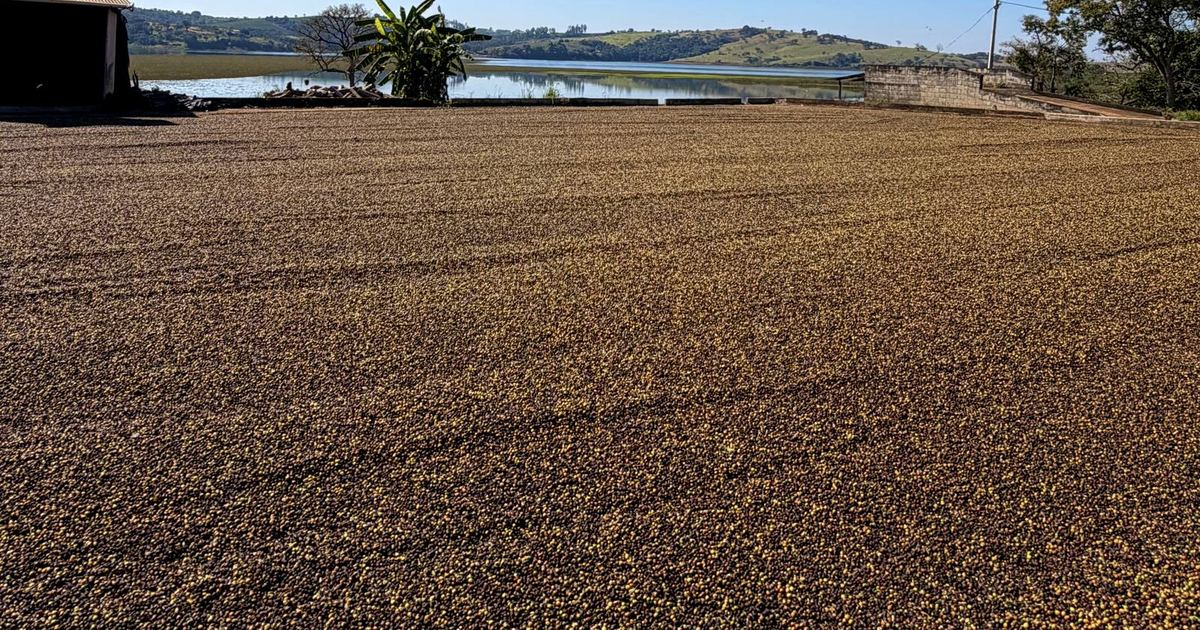
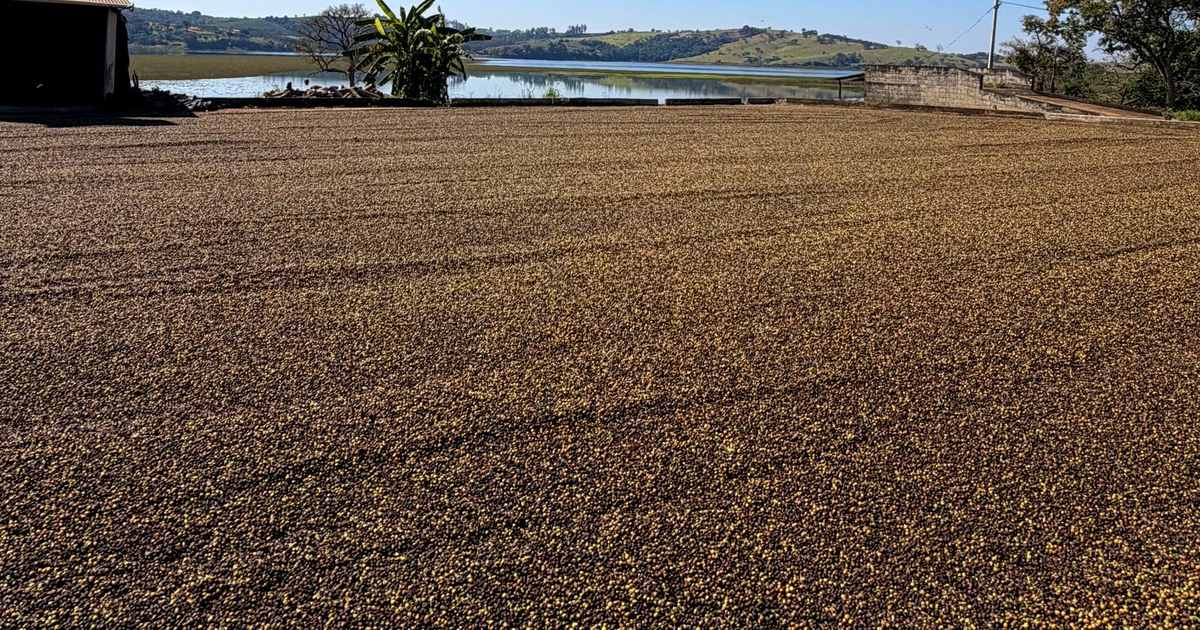
Section titles in browser tab

diff --git a/index.html b/index.html
@@ -118,6 +118,9 @@ nav.solid .brand{color:#fff}
 }
 nav.solid .nav-links a{color:rgba(247,244,236,0.9)}
 .nav-links a:hover{border-bottom-color:var(--brass);color:var(--brass)}
+/* the section you are currently reading */
+.nav-links a.current{border-bottom-color:var(--brass);color:var(--brass)}
+nav.solid .nav-links a.current{color:var(--brass)}
 
 /* language */
 .lang{position:relative}
@@ -1301,8 +1304,10 @@ document.addEventListener('click',e=>{
 });
 
 const FLAGS={en:'🇬🇧',ar:'🇦🇪',pt:'🇧🇷',fr:'🇫🇷',tr:'🇹🇷',hi:'🇮🇳',zh:'🇨🇳'};
+let cur='en';
 function setLang(code){
  const t=T[code];if(!t)return;
+ cur=code;
  document.querySelectorAll('[data-i18n]').forEach(el=>{
   const k=el.getAttribute('data-i18n');
   if(t[k]!==undefined)el.innerHTML=t[k];
@@ -1322,12 +1327,48 @@ function setLang(code){
  lw.classList.remove('open');
  lw.querySelector('.lang-btn').setAttribute('aria-expanded','false');
  saveLang(code);
+ applyTitle();
 }
 
 const nav=document.getElementById('nav');
 const onScroll=()=>nav.classList.toggle('solid',window.scrollY>60);
 window.addEventListener('scroll',onScroll,{passive:true});
 onScroll();
+
+/* ---- Tab title follows the section you are reading ----
+   At the top it shows the full site title. Once you reach a section
+   it becomes "Origin | Olga Mae", and it follows the chosen language. */
+const SECTIONS=[['about','n_about'],['region','n_region'],['sourcing','n_sourcing'],
+                ['process','n_process'],['gallery','n_gallery'],['contact','n_contact']];
+const FULL_TITLE='Olga Mae | Brazilian Arabica Coffee Sourcing · Sul de Minas, Minas Gerais';
+let activeSection=null;
+
+function applyTitle(){
+ const t=T[cur]||T.en;
+ if(!activeSection){document.title=FULL_TITLE;return}
+ const pair=SECTIONS.find(s=>s[0]===activeSection);
+ const name=pair&&t[pair[1]]?t[pair[1]].replace(/<[^>]*>/g,''):'';
+ document.title=name?name+' | Olga Mae':FULL_TITLE;
+ document.querySelectorAll('.nav-links a').forEach(a=>
+  a.classList.toggle('current',a.getAttribute('href')==='#'+activeSection));
+}
+
+function initSectionTitles(){
+ if(!('IntersectionObserver' in window))return;
+ const seen=new Map();
+ const io=new IntersectionObserver(entries=>{
+  entries.forEach(e=>seen.set(e.target.id,e.intersectionRatio));
+  let best=null,bestRatio=0;
+  seen.forEach((ratio,id)=>{if(ratio>bestRatio){bestRatio=ratio;best=id}});
+  const next=(window.scrollY<200)?null:(bestRatio>0.25?best:activeSection);
+  if(next!==activeSection){activeSection=next;applyTitle()}
+ },{threshold:[0,0.25,0.5,0.75,1]});
+ SECTIONS.forEach(([id])=>{const el=document.getElementById(id);if(el)io.observe(el)});
+ window.addEventListener('scroll',()=>{
+  if(window.scrollY<200&&activeSection!==null){activeSection=null;applyTitle()}
+ },{passive:true});
+}
+initSectionTitles();
 
 /* Remember the visitor's language across refreshes and navigation.
    First visit falls back to the browser's own language, then English. */
